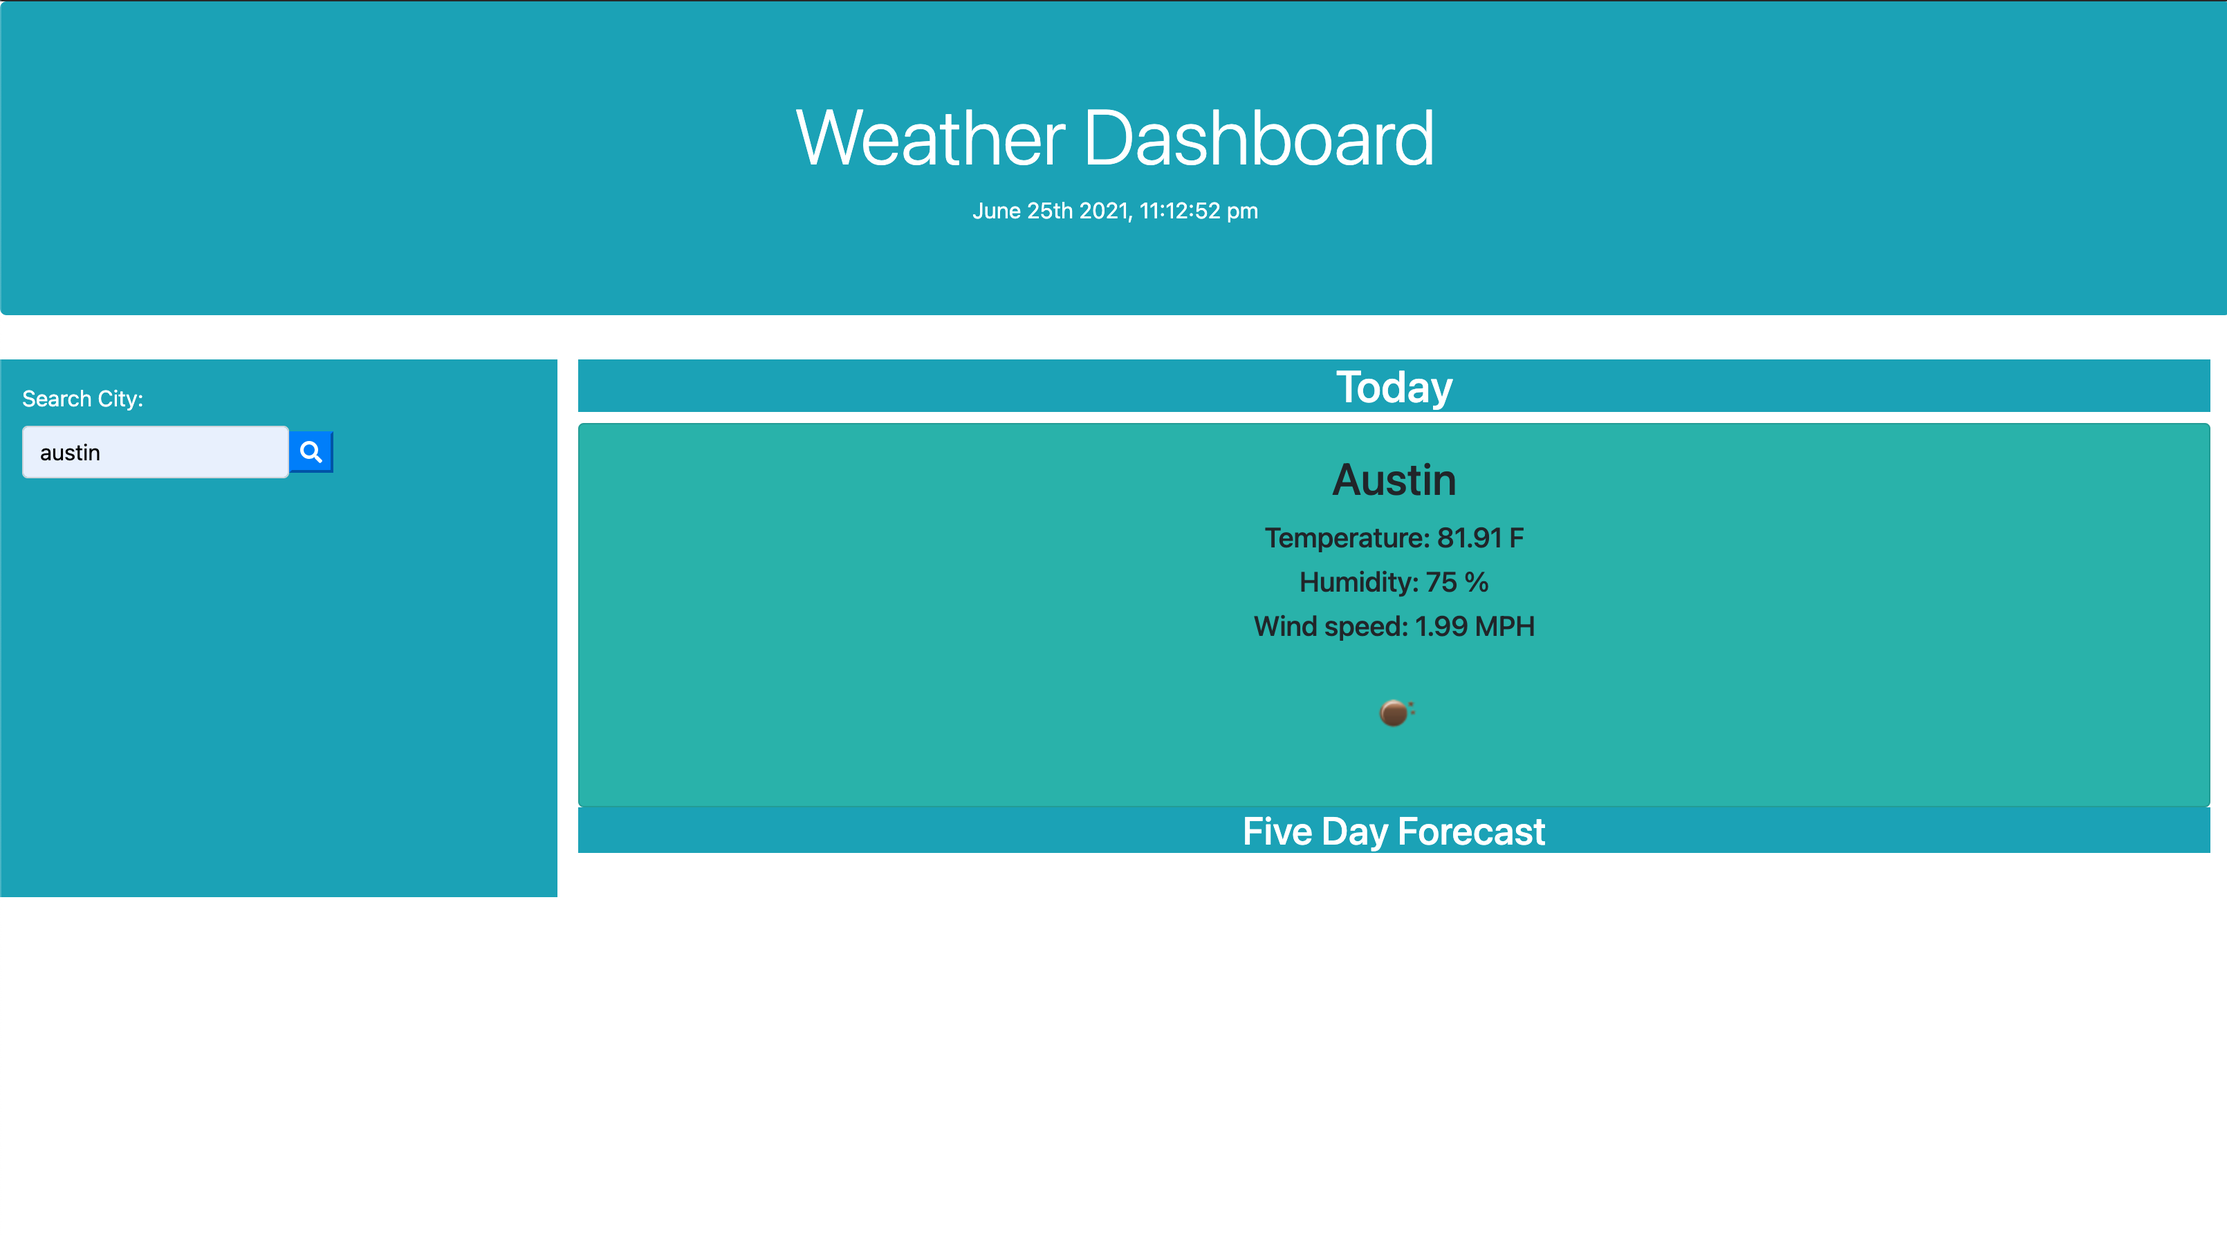
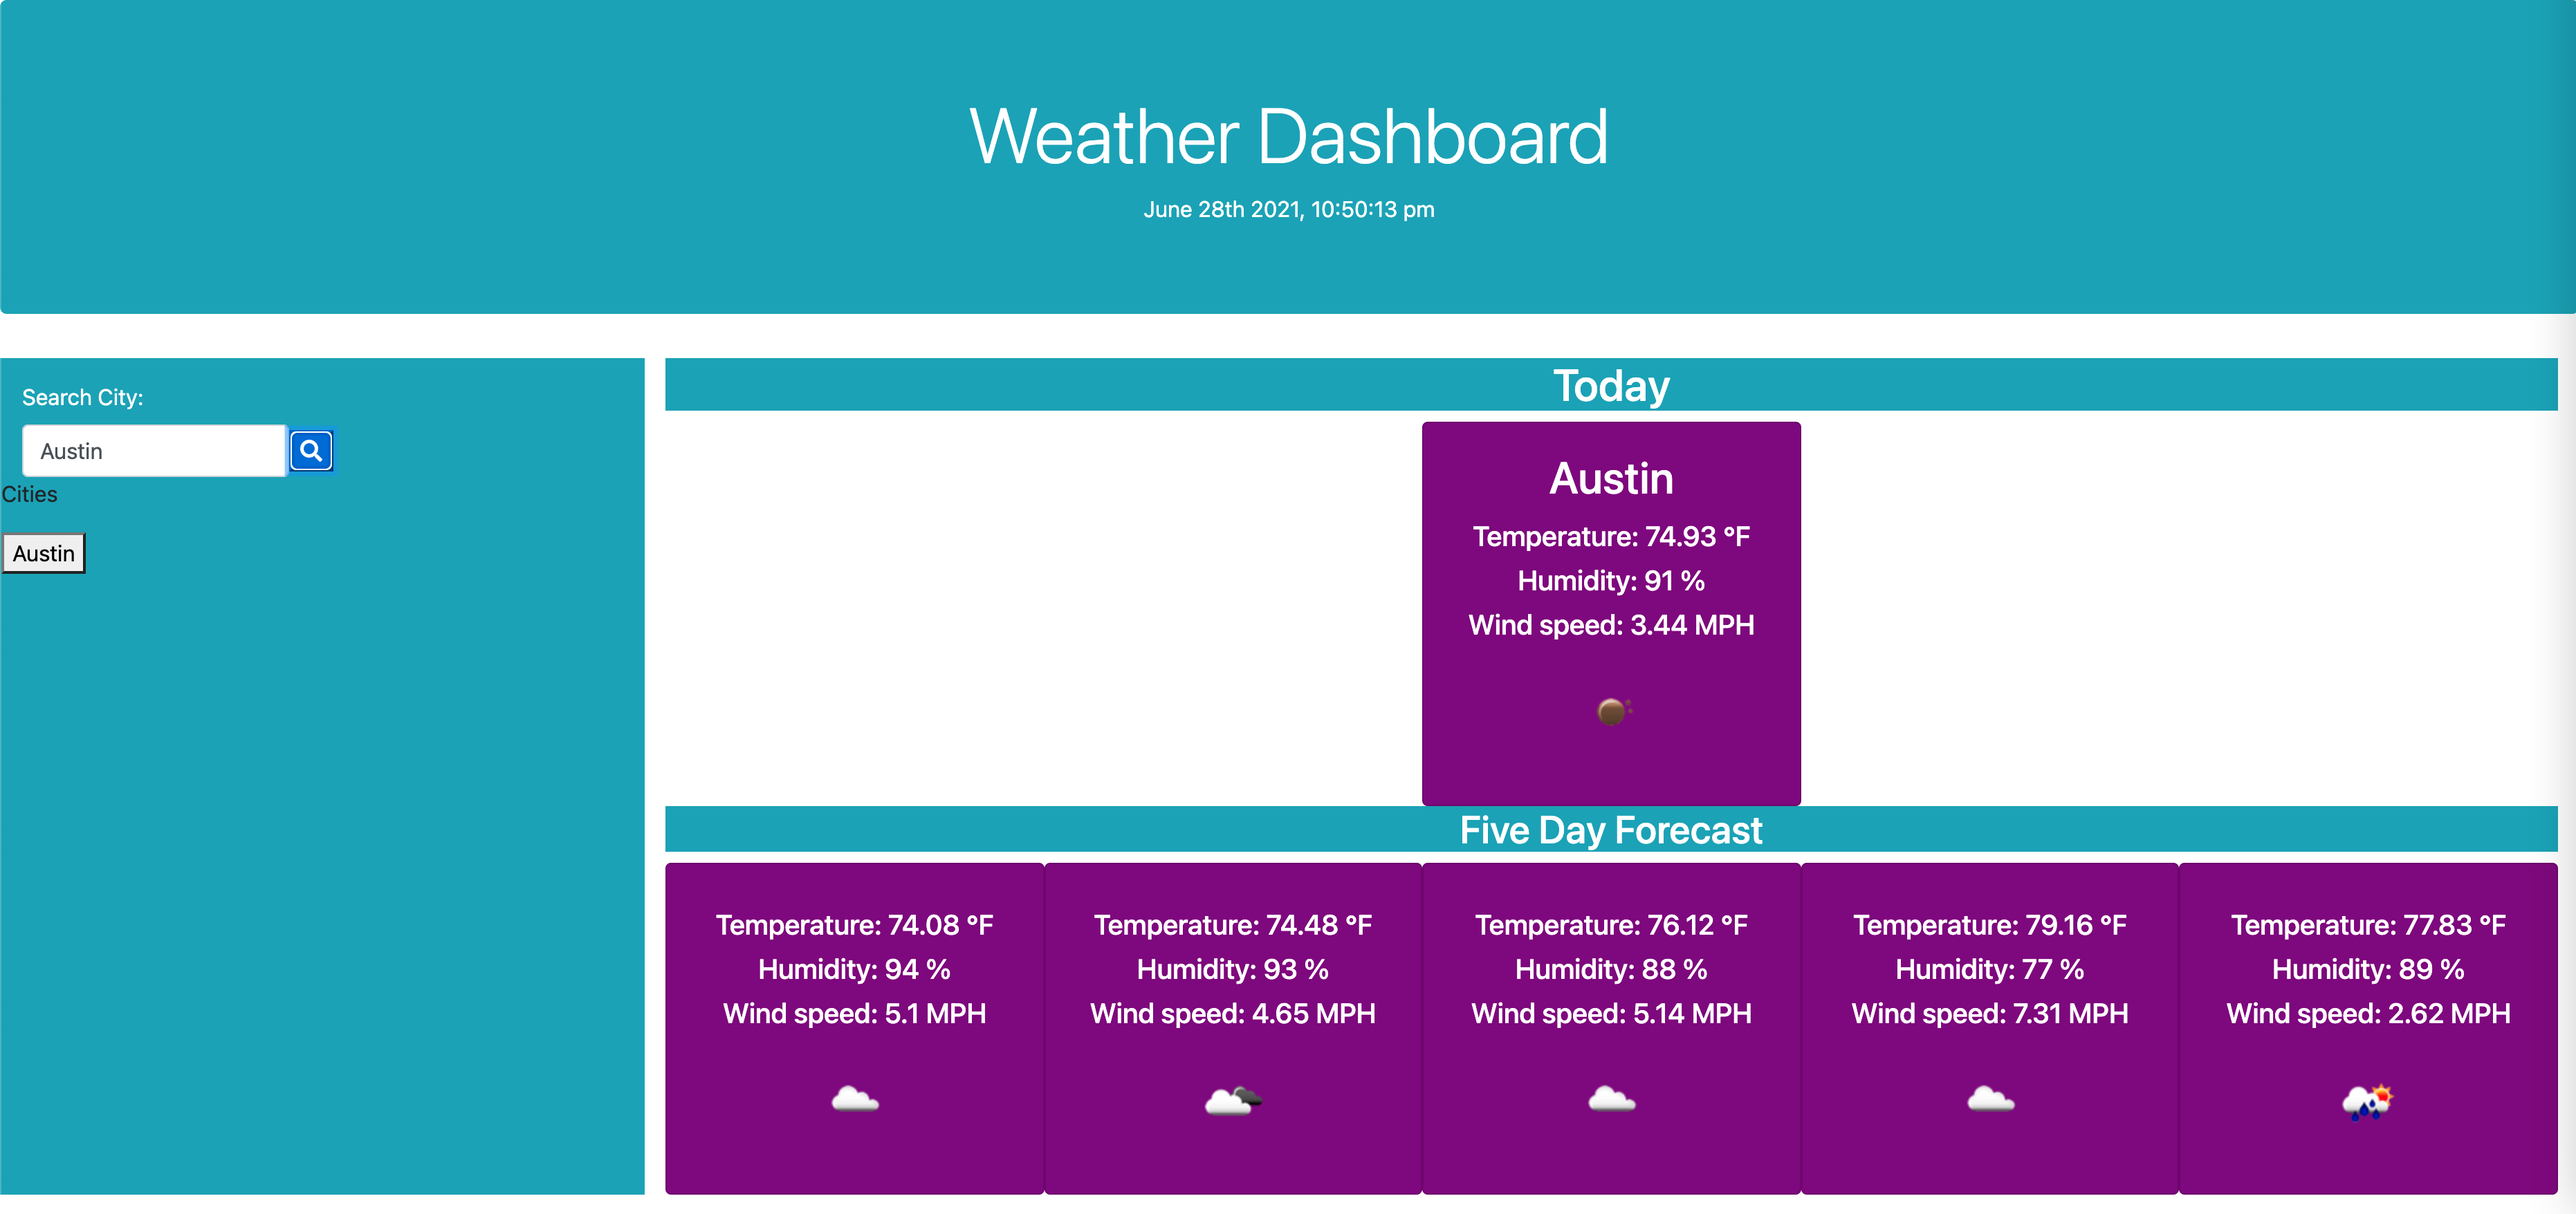
made boxes show up as row

diff --git a/assets/js/script.js b/assets/js/script.js
@@ -151,6 +151,8 @@ $(document).ready(function () {
                 card1.append(cardBody1)
                 $(".five-day").append(card1);
 
+              
+
                 }
             }
 
@@ -173,6 +175,26 @@ $(document).ready(function () {
             success: function (data) {
                 console.log("UV INDEX DATA", data.value)
 
+                // var indexUv = $("<h5>").addClass("card-text").text("UV Index: " + data.value);
+                // console.log(data.value);
+
+                     //Changes UV badge color based on UV Index number
+            // if (data.value <= 4) {              
+            //     $(uvIndex).css("color", "green");
+            // }
+
+            // else if (data.value > 4 && data.value <= 7) {
+            //     $(uvIndex).removeClass("color", "green");
+            //     $(uvIndex).css("color", "orange");
+            // }
+
+            // else {
+            //     $(uvIndex).removeClass("color", "green");
+            //     $(uvIndex).removeClass("color", "orange");
+            //     $(uvIndex).css("color", "red");
+              
+            // }
+
             }
         })
     }
@@ -186,6 +208,8 @@ $(document).ready(function () {
         searchCity(searchValue);
 
         forecastSearch(searchValue);
+
+        // uvIndex(data.value);
 
         // cityArray.push(searchValue)
         // console.log(cityArray)

diff --git a/index.html b/index.html
@@ -53,13 +53,16 @@
                 </div>
                 <!-- Weather information-->
                 <div class="col-md-9">
+                    
                     <h2 id="today" class="today bg-info text-white text-center">Today</h2>
                     <div id="today-weather"></div>
+                    <div class="row"></div>
                     <h3 class="forecast bg-info text-white text-center">Five Day Forecast</h3>
-                    <div class="five-day d-inline-block"></div>
+                    <div class="five-day d-inline"></div>
                 </div>
             </div>
         </div>
+    </div>
 
     </main>
 

diff --git a/assets/css/style.css b/assets/css/style.css
@@ -1,7 +1,11 @@
 
 
 div.card{
-   background-color: lightseagreen;
+    display: inline-block;
+   background-color: purple;
+   color: white;
+   width: 20%;
+ 
 }
 
 #today-weather {
@@ -9,6 +13,9 @@ div.card{
 }
 
 .five-day{
+    display: grid;
     text-align: center;
+    /* width: 15%;
+    display: table; */
 }
 
